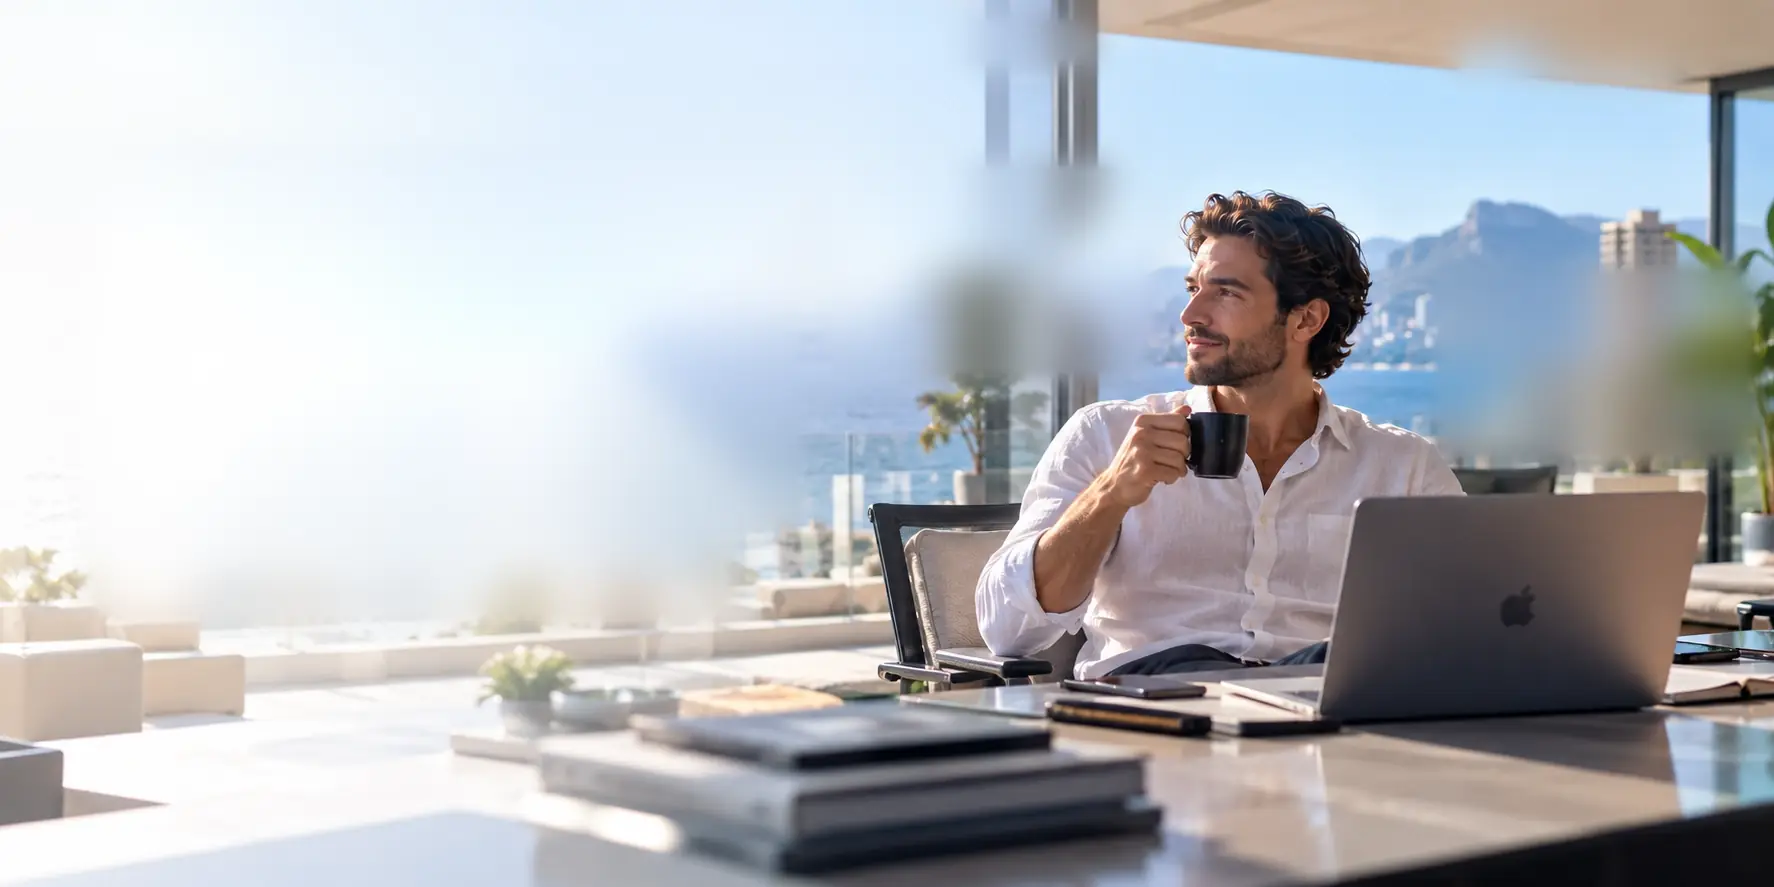
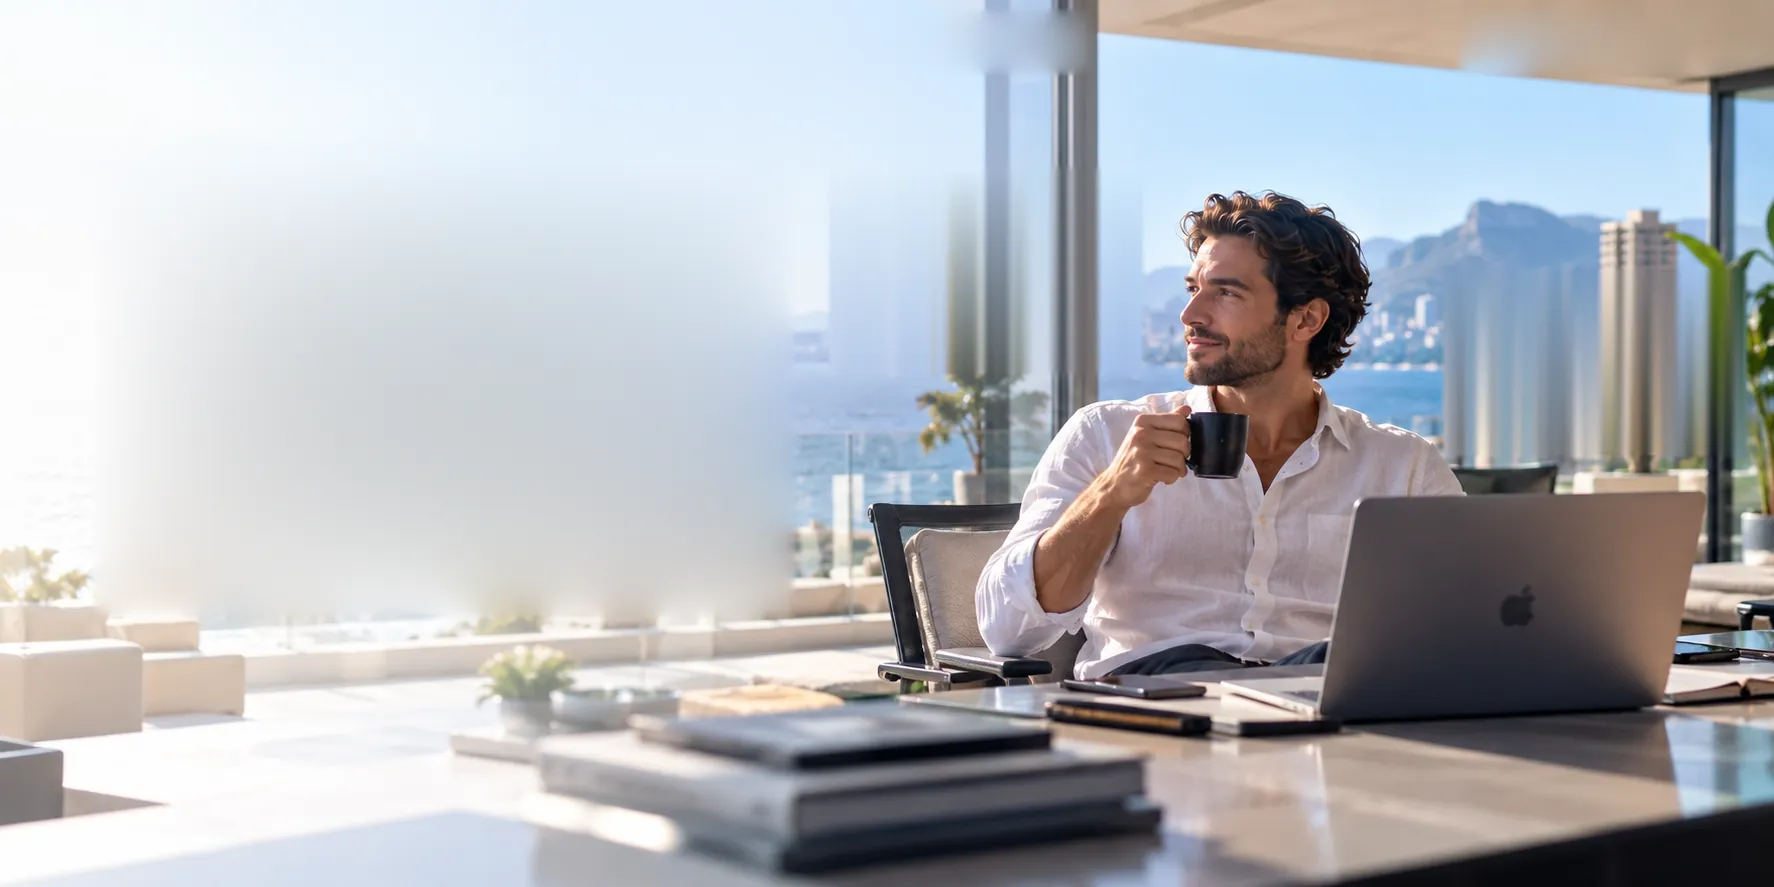
home: hero y garantia nitidos, y en movil el titular arriba, carruseles, caso y garantia con las medidas de estetica

diff --git a/src/index.html b/src/index.html
@@ -160,6 +160,7 @@
     .h-t { margin-top: 22px; font-size: var(--h1); line-height: 1.04; font-weight: 700; letter-spacing: -.045em; }
     .h-sub { margin-top: 26px; max-width: 560px; font-size: clamp(17px, 1.35vw, 20.5px); line-height: 1.55; color: #1F242B; }
     .h-btns { margin-top: 38px; display: flex; flex-wrap: wrap; gap: 18px; }
+    .h-fmov { display: none; }
 
     /* Notificaciones de ejemplo sobre la foto. Son ilustrativas (no hay
        contador ni dato en vivo detras): por eso dicen "Hace 2 min" y no
@@ -300,7 +301,11 @@
     /* Segunda pasada (2026-10-03): "la garantia ocupa mucho". Sin alto
        minimo, retratos 4:4,7 y filas de 44 px, como /estetica/. */
     .s07 { background: #3A3029; min-height: 0; }
-    .s07 .foto { background-image: url(/assets/home-equipo.webp); }
+    /* 2026-10-04: la foto del boceto (home-equipo) estaba borrada casi
+       entera por inpainting y Anais la vio "muy borrosa". Mientras no
+       lleguen los fondos de la home va el salon de inmobiliarias, que es
+       una foto real, nitida y del mismo tono calido. */
+    .s07 .foto { background-image: url(/assets/escena-inmobiliaria.webp); background-position: 30% center; }
     .s07 .velo { background: linear-gradient(90deg, rgba(28,22,18,.72) 0%, rgba(28,22,18,.48) 34%, rgba(28,22,18,.22) 60%, rgba(28,22,18,.30) 100%); }
     .s07 .caja { display: grid; grid-template-columns: 4fr 4.6fr 5.6fr; gap: clamp(22px, 2.4vw, 40px); align-items: center; padding-top: 76px; padding-bottom: 76px; }
     .e-col { color: #fff; }
@@ -459,14 +464,17 @@
 
       /* --- hero: la foto se encoge al ancho y sube, para que el texto
          empiece antes ("las letras empiezan muy abajo") sin taparle la cara --- */
-      .hero { height: auto; min-height: 100svh; background: var(--crema); }
-      .hero .foto { background-image: url(/assets/home-hero-movil.webp); background-size: 100% auto; background-position: center -78px; }
-      .hero .velo { background: linear-gradient(180deg, rgba(249,248,246,0) 0%, rgba(249,248,246,0) 20%, rgba(249,248,246,.9) 30%, var(--crema) 40%); }
+      /* El texto arranca justo debajo de la barra ("las letras empiezan muy
+         abajo") y la foto del chico pasa a un bloque redondeado debajo, con
+         las cuatro viñetas montadas sobre su borde inferior. */
+      .hero { height: auto; min-height: 0; background: var(--crema); }
+      .hero .foto, .hero .velo { display: none; }
+      .h-fmov { display: block; position: relative; z-index: 1; margin-top: 22px; height: 240px; border-radius: 14px; background: url(/assets/home-hero-movil.webp) 60% 25% / cover no-repeat; }
       .h-nav-in { padding: 9px 22px; }
       .h-links { display: none; }
       .marca { font-size: 20px; }
       .h-navbtn { margin-left: auto; padding: .6rem 1.05rem; font-size: .8rem; gap: .4rem; }
-      .h-cuerpo { flex-direction: column; justify-content: flex-start; align-items: stretch; padding: 255px 22px 28px; }
+      .h-cuerpo { flex-direction: column; justify-content: flex-start; align-items: stretch; padding: 84px 22px 26px; }
       .h-t { font-size: clamp(2rem, 8.4vw, 2.6rem); line-height: 1.05; margin-top: .8rem; }
       .h-t br { display: none; }
       .h-sub { font-size: .95rem; line-height: 1.55; margin-top: .9rem; }
@@ -474,10 +482,10 @@
       .h-btns .btn { flex: 1 1 auto; }
       /* las cuatro notificaciones pasan debajo, de dos en dos: en el movil
          se ve lo mismo que en el escritorio (regla de Anais) */
-      .h-avisos { position: static; width: auto; display: grid; grid-template-columns: 1fr 1fr; gap: 8px; margin-top: 14px; }
+      .h-avisos { position: relative; z-index: 2; width: auto; display: grid; grid-template-columns: 1fr 1fr; gap: 8px; margin: -46px 10px 0; }
+      .h-avisos + .h-avisos { margin: 8px 10px 0; }
       .h-av2 { display: grid; }
-      .h-avisos + .h-avisos { margin-top: 8px; }
-      .av { grid-template-columns: 28px 1fr; gap: 0 9px; padding: 10px 9px; border-radius: 10px; }
+      .av { grid-template-columns: 28px 1fr; gap: 0 9px; padding: 10px 9px; border-radius: 10px; background: rgba(250,251,253,.94); }
       .av > div { min-width: 0; }
       .av b { padding-right: 0; }
       .av b, .av span { white-space: normal; }
@@ -487,13 +495,17 @@
       .av span { font-size: 11.5px; }
       .av i { display: none; }
 
-      /* --- 02 --- */
-      .c-grid { margin-top: 24px; grid-template-columns: 1fr 1fr; gap: 10px; }
+      /* --- 02: carrusel horizontal ("hay que deslizar mucho"). Se ve una
+         tarjeta y media para que se entienda que se desliza de lado. --- */
+      .c-grid { margin: 22px -22px 0; padding: 0 22px 6px; display: grid; grid-auto-flow: column; grid-template-columns: none; grid-auto-columns: 62%; gap: 10px;
+                overflow-x: auto; scroll-snap-type: x mandatory; scroll-padding: 0 22px; scrollbar-width: none; -webkit-overflow-scrolling: touch; }
+      .c-grid::-webkit-scrollbar { display: none; }
+      .c-card { scroll-snap-align: start; }
       .c-card img { aspect-ratio: 16 / 10; }
       .c-tx { padding: 11px 12px 14px; }
       .c-tx h3 { font-size: .86rem; line-height: 1.25; }
       .c-tx h3 br { display: none; }
-      .c-tx p { font-size: .78rem; line-height: 1.45; margin-top: 5px; }
+      .c-tx p { font-size: .76rem; line-height: 1.45; margin-top: 5px; }
 
       /* --- 03: de dos en dos y solo el nombre del sector. La entradilla de
          cada tarjeta era la misma frase seis veces ("Automatizacion e
@@ -501,85 +513,94 @@
       .x-grid { margin-top: 24px; grid-template-columns: 1fr 1fr; gap: 10px; }
       .x-card { aspect-ratio: 1 / .82; border-radius: 12px; }
       .x-card::after { background: linear-gradient(180deg, rgba(8,10,14,0) 35%, rgba(8,10,14,.82) 100%); }
-      .x-tx { left: 12px; right: 44px; bottom: 12px; }
-      .x-tx h3 { font-size: 1.02rem; line-height: 1.15; letter-spacing: -.02em; }
+      /* la flecha sube a la esquina: "Concesionarios" se pegaba a ella */
+      .x-tx { left: 12px; right: 12px; bottom: 11px; }
+      .x-tx h3 { font-size: .95rem; line-height: 1.15; letter-spacing: -.02em; }
       .x-tx p { display: none; }
-      .x-ir { right: 10px; bottom: 12px; width: 28px; height: 28px; border-width: 1.2px; }
+      .x-ir { top: 10px; bottom: auto; right: 10px; width: 28px; height: 28px; border-width: 1.2px; background: rgba(8,10,14,.25); }
       .x-ir svg { width: 14px; height: 14px; }
 
-      /* --- 04: cada paso en una fila, foto a la izquierda --- */
-      .p-grid { margin-top: 24px; grid-template-columns: 1fr; gap: 22px; }
-      .p-paso { display: grid; grid-template-columns: 34% 1fr; border-radius: 12px; }
+      /* --- 04: cada paso en una fila, foto a la izquierda, y la seccion
+         entera cabe en una pantalla (~720 px) --- */
+      .s04 .caja { padding-top: 40px; padding-bottom: 40px; }
+      .s04 .cab .p { font-size: .84rem; line-height: 1.55; }
+      .p-grid { margin-top: 18px; grid-template-columns: 1fr; gap: 14px; }
+      .p-paso { display: grid; grid-template-columns: 30% 1fr; border-radius: 12px; }
       .p-paso img { aspect-ratio: auto; height: 100%; border-radius: 12px 0 0 12px; }
-      .p-paso + .p-paso::before { left: calc(17% - 13px); top: -19px; width: 26px; height: 26px; background-size: 13px; transform: rotate(90deg); }
-      .p-tx { display: block; padding: 12px 14px 14px; }
-      .p-n { display: block; font-size: 1.3rem; line-height: 1; }
-      .p-tx h3 { margin-top: 6px; font-size: .92rem; }
-      .p-tx p { margin-top: 5px; font-size: .8rem; line-height: 1.5; }
-      .p-pie { margin-top: 26px; gap: 12px; font-size: .62rem; letter-spacing: .18em; text-align: center; }
-      .p-pie::before, .p-pie::after { flex-basis: 34px; }
+      .p-paso + .p-paso::before { left: calc(15% - 11px); top: -16px; width: 22px; height: 22px; background-size: 11px; transform: rotate(90deg); }
+      .p-tx { display: block; padding: 9px 12px 10px; }
+      .p-n { display: block; font-size: 1.05rem; line-height: 1; }
+      .p-tx h3 { margin-top: 3px; font-size: .84rem; }
+      .p-tx p { margin-top: 3px; font-size: .74rem; line-height: 1.42; }
+      .p-pie { margin-top: 18px; gap: 10px; font-size: .58rem; letter-spacing: .16em; text-align: center; }
+      .p-pie::before, .p-pie::after { flex-basis: 30px; }
 
-      /* --- 05: la foto arriba mas baja y las ocho fichas mas cortas --- */
-      .s05 .foto, .s05 .velo { left: 0; height: 220px; }
+      /* --- 05: foto arriba mas baja y las ocho fichas en carrusel --- */
+      .s05 .foto, .s05 .velo { left: 0; height: 190px; }
       .s05 .foto { background-image: url(/assets/home-integ-movil.webp); background-position: center 30%; }
       .s05 .velo { background: linear-gradient(0deg, #FAF8F6 0%, rgba(250,248,246,0) 45%); }
-      .s05 .caja { padding-top: 196px; }
-      .i-tx .p { margin-top: .8rem; }
-      .i-grid { margin-top: 22px; grid-template-columns: 1fr 1fr; gap: 9px; }
-      .i-card img { aspect-ratio: 16 / 8; }
-      .i-card div { padding: 9px 11px 12px; }
-      .i-card b { font-size: .86rem; }
-      .i-card span { margin-top: 3px; font-size: .76rem; line-height: 1.4; }
+      .s05 .caja { padding-top: 170px; padding-bottom: 40px; }
+      .i-tx .p { margin-top: .7rem; font-size: .86rem; }
+      .i-grid { margin: 18px -22px 0; padding: 0 22px 6px; display: grid; grid-auto-flow: column; grid-template-columns: none; grid-auto-columns: 38%; gap: 9px;
+                overflow-x: auto; scroll-snap-type: x mandatory; scroll-padding: 0 22px; scrollbar-width: none; }
+      .i-grid::-webkit-scrollbar { display: none; }
+      .i-card { scroll-snap-align: start; }
+      .i-card img { aspect-ratio: 16 / 11; }
+      .i-card div { padding: 9px 10px 11px; }
+      .i-card b { font-size: .84rem; }
+      .i-card span { margin-top: 3px; font-size: .72rem; line-height: 1.4; }
       .i-card br { display: none; }
 
-      /* --- 06: los tres numeros en una fila y todo un punto mas pequeno --- */
-      .s06 .caja { padding-top: 52px; padding-bottom: 52px; }
-      .k-grid { gap: 18px; }
-      .k-fotos { margin-top: 18px; gap: 8px; }
+      /* --- 06: medidas del caso de Pilar en /estetica/ movil, que Anais da
+         por buenas ("estan mas pequeñas") --- */
+      .s06 .caja { padding-top: 34px; padding-bottom: 34px; }
+      .k-izq .h2 { font-size: clamp(1.5rem, 3vw, 2rem); }
+      .k-grid { gap: 14px; }
+      .k-fotos { margin-top: 14px; gap: 8px; aspect-ratio: auto; }
+      .k-fotos img { aspect-ratio: 16 / 10; height: auto; border-radius: 10px; }
       .k-quien { margin-top: 12px; }
-      .k-quien b { font-size: 1.25rem; }
-      .k-quien span { font-size: .95rem; }
-      .k-quien i { font-size: .8rem; margin-top: 2px; }
+      .k-quien b { font-size: 1.2rem; }
+      .k-quien span { font-size: .9rem; }
+      .k-quien i { font-size: .78rem; margin-top: 2px; }
       .k-der { gap: 10px; }
-      .k-ig { align-self: flex-start; font-size: .82rem; margin: 0; }
+      .k-ig { align-self: flex-start; font-size: .8rem; margin: 0; }
       .k-ig svg { width: 20px; height: 20px; }
-      .k-nums { grid-template-columns: .8fr .8fr 1.4fr; }
-      .k-num { padding: 14px 12px 12px; }
-      .k-num strong { font-size: 1.75rem; letter-spacing: -.03em; }
-      .k-num span { margin-top: 8px; font-size: .58rem; letter-spacing: .06em; white-space: normal; }
-      .k-num i { font-size: .7rem; margin-top: 2px; }
-      .k-sin { grid-template-columns: 24px 1fr; gap: 0 12px; padding: 14px; }
-      .k-sin svg { width: 22px; height: 22px; }
-      .k-sin b { font-size: .88rem; }
-      .k-sin p { font-size: .8rem; }
-      .k-nota { grid-column: 1 / -1; margin-top: 10px; padding-top: 10px; font-size: .72rem; }
+      .k-nums { grid-template-columns: 1fr 1fr 1.25fr; }
+      .k-num { padding: 12px 10px; }
+      .k-num strong { font-size: 1.45rem; letter-spacing: -.03em; }
+      .k-num span { margin-top: 6px; font-size: .56rem; letter-spacing: .06em; white-space: normal; }
+      .k-num i { font-size: .66rem; margin-top: 2px; }
+      .k-sin { grid-template-columns: 22px 1fr; gap: 0 10px; padding: 10px 12px; }
+      .k-sin svg { width: 20px; height: 20px; }
+      .k-sin b { font-size: .84rem; }
+      .k-sin p { font-size: .74rem; line-height: 1.45; }
+      .k-nota { grid-column: 1 / -1; margin-top: 6px; padding-top: 8px; font-size: .62rem; line-height: 1.4; }
       .k-dos { grid-template-columns: 1fr; gap: 10px; }
-      .k-card { padding: 14px 16px 16px; }
-      .k-card h3 { font-size: .9rem; }
-      .k-card p { margin-top: 6px; font-size: .8rem; line-height: 1.5; }
-      .k-cita { grid-template-columns: 38px 1fr; gap: 0 12px; padding: 14px 16px; align-items: start; }
-      .k-cita u { width: 38px; height: 38px; }
-      .k-cita u svg { width: 19px; height: 19px; }
-      .k-cita hr { display: none; }
-      .k-cita b { font-size: .88rem; }
-      .k-cita p { font-size: .8rem; line-height: 1.5; }
+      .k-card { padding: 10px 12px 12px; }
+      .k-card h3 { font-size: .84rem; }
+      .k-card p { margin-top: 4px; font-size: .74rem; line-height: 1.42; }
+      .k-cita { grid-template-columns: 1fr; gap: 0; padding: 10px 12px; }
+      .k-cita u, .k-cita hr { display: none; }
+      .k-cita b { font-size: .84rem; }
+      .k-cita p { font-size: .74rem; line-height: 1.42; }
 
-      /* --- 07-09 --- */
-      .s07 .caja { padding-top: 52px; padding-bottom: 52px; }
-      .s07 .foto { background-image: url(/assets/home-equipo-movil.webp); }
-      .s07 .velo { background: linear-gradient(180deg, rgba(28,22,18,.70) 0%, rgba(28,22,18,.50) 40%, rgba(28,22,18,.70) 100%); }
-      .e-col .p { font-size: .93rem; margin-top: .8rem; }
-      .e-pers { margin-top: 22px; gap: 10px; }
-      .e-nom { padding: 8px 12px 10px; }
-      .e-nom b { font-size: .9rem; } .e-nom i { font-size: .75rem; }
-      .g-col { margin-top: 20px; }
-      .g-panel { padding: 4px 12px 10px; }
-      .g-fila, .g-datos { grid-template-columns: 36px 1fr; gap: 0 12px; padding: 9px 0; font-size: .84rem; }
-      .g-datos { padding: 10px; }
-      .g-fila u, .g-datos u { width: 36px; height: 36px; }
-      .g-fila u svg, .g-datos u svg { width: 18px; height: 18px; }
-      .g-datos b { font-size: .84rem; }
-      .g-datos p { font-size: .74rem; }
+      /* --- 07-09: medidas de equipo y garantia de /estetica/ movil --- */
+      .s07 .caja { padding-top: 32px; padding-bottom: 32px; }
+      .s07 .velo { background: linear-gradient(180deg, rgba(20,14,10,.78) 0%, rgba(20,14,10,.55) 40%, rgba(20,14,10,.70) 100%); }
+      .e-col .p { font-size: .86rem; line-height: 1.5; margin-top: .6rem; }
+      .e-pers { margin-top: 14px; max-width: 250px; gap: 8px; }
+      .e-per { aspect-ratio: 4 / 3.6; }
+      .e-nom { padding: 6px 9px 7px; }
+      .e-nom b { font-size: .8rem; } .e-nom i { font-size: .68rem; }
+      .g-col { margin-top: 14px; }
+      .g-panel { padding: 2px 12px 10px; }
+      .g-fila, .g-datos { grid-template-columns: 30px 1fr; gap: 0 10px; }
+      .g-fila { padding: 6px 0; font-size: .8rem; }
+      .g-datos { padding: 8px 10px; margin-top: 2px; }
+      .g-fila u, .g-datos u { width: 30px; height: 30px; }
+      .g-fila u svg, .g-datos u svg { width: 16px; height: 16px; }
+      .g-datos b { font-size: .8rem; }
+      .g-datos p { font-size: .7rem; line-height: 1.4; }
       .g-fila br, .e-col .p br { display: none; }
 
       /* --- 10 --- */
@@ -655,6 +676,10 @@
           <a class="btn btn-b" href="#hablemos" data-cal>Reservar llamada</a>
         </div>
       </div>
+
+      <!-- Solo movil: la foto va en un bloque debajo del texto, para que el
+           titular empiece justo debajo de la barra (2026-10-04). -->
+      <div class="h-fmov" aria-hidden="true"></div>
 
       <div class="h-avisos h-av1" aria-label="Ejemplos de avisos del sistema">
         <div class="av"><u class="wa"><svg viewBox="0 0 24 24" fill="currentColor"><path d="M12 2.2a9.7 9.7 0 00-8.4 14.6L2.3 21.7l5-1.3A9.7 9.7 0 1012 2.2zm0 17.7a8 8 0 01-4.1-1.1l-.3-.2-3 .8.8-2.9-.2-.3A8 8 0 1112 19.9zm4.4-6c-.2-.1-1.4-.7-1.6-.8s-.4-.1-.5.1l-.8.9c-.1.2-.3.2-.5.1a6.5 6.5 0 01-3.2-2.8c-.2-.4.2-.4.7-1.3.1-.1 0-.3 0-.4l-.7-1.7c-.2-.5-.4-.4-.5-.4h-.5a.9.9 0 00-.6.3 2.7 2.7 0 00-.9 2c0 1.2.9 2.3 1 2.5s1.7 2.6 4.2 3.7c1.6.7 2.2.7 3 .6.5-.1 1.4-.6 1.6-1.1s.2-1 .1-1.1-.2-.2-.4-.3z"/></svg></u>

diff --git a/docs/fondos-index-v2.py b/docs/fondos-index-v2.py
@@ -85,21 +85,76 @@ def emborrona(arr, rect, sigma=4):
 
 
 # ---------------- 01 · HERO ----------------
+# Segunda version (2026-10-04). La primera borraba con inpainting y
+# desenfoque, y dejaba manchas grises donde iban las tarjetas del boceto.
+# Mientras las tarjetas HTML estaban encima no se veian; al bajarlas para
+# despejar la cara del chico quedaron a la vista y Anais vio el hero "muy
+# borroso". Ahora:
+#  - la zona del pilar se rellena columna a columna (pixel de arriba a pixel
+#    de abajo): el pilar sigue siendo una linea vertical limpia;
+#  - el resto con un relleno suave que parte de los cuatro bordes del hueco
+#    (ecuacion de Laplace, por piramide), fundido en el borde y con grano.
+#    En la bruma y el fondo desenfocado se lee como profundidad de campo,
+#    no como mancha ni como recuadro.
+def rellena_vertical(arr, rect):
+    x0, y0, x1, y1 = rect
+    arr = arr.astype(np.float32)
+    arriba = arr[y0 - 1, x0:x1]
+    abajo = arr[y1, x0:x1]
+    t = np.linspace(0, 1, y1 - y0, dtype=np.float32)[:, None, None]
+    arr[y0:y1, x0:x1] = arriba[None] * (1 - t) + abajo[None] * t
+    return arr
+
+
+def rellena_suave(arr, mascara):
+    """Relleno armonico: dentro de la mascara, cada pixel es la media de sus
+    vecinos; se resuelve de grueso a fino para que converja rapido."""
+    img = arr.astype(np.float32)
+    m = mascara > 0
+    niveles = []
+    a, mm = img, m
+    while min(a.shape[:2]) > 40:
+        niveles.append((a, mm))
+        a = cv2.resize(a, (a.shape[1] // 2, a.shape[0] // 2), interpolation=cv2.INTER_AREA)
+        mm = cv2.resize(mm.astype(np.uint8), (mm.shape[1] // 2, mm.shape[0] // 2), interpolation=cv2.INTER_NEAREST) > 0
+    sol = None
+    for a, mm in reversed(niveles):
+        a = a.copy()
+        if sol is not None:
+            sube = cv2.resize(sol, (a.shape[1], a.shape[0]), interpolation=cv2.INTER_LINEAR)
+            a[mm] = sube[mm]
+        for _ in range(120):
+            media = cv2.blur(a, (3, 3))
+            a[mm] = media[mm]
+        sol = a
+    return sol
+
+
+def funde(base, relleno, mascara, borde=14, grano=1.4, semilla=7):
+    a = cv2.GaussianBlur((mascara > 0).astype(np.float32), (0, 0), borde)[..., None]
+    a = np.clip(a * 1.25, 0, 1) * ((mascara > 0)[..., None] * .0 + 1)
+    rng = np.random.default_rng(semilla)
+    r = relleno + rng.normal(0, grano, relleno.shape) * (mascara > 0)[..., None]
+    out = base.astype(np.float32) * (1 - a) + r * a
+    return np.clip(out, 0, 255).astype(np.uint8)
+
+
 h = carga('01-hero.webp')
+# Rellenos verticales: detras de las viñetas habia lineas verticales reales
+# (el pilar de la ventana a la izquierda; el edificio, el marco y la planta a
+# la derecha). Un poco de suavizado horizontal quita las rayas de cortina.
+for r in [(828, 168, 1144, 372),         # "Nuevo cliente" y "Cita confirmada"
+          (1442, 270, 1748, 454)]:       # "Lead cualificado" y "Proceso automatizado"
+    hv = rellena_vertical(h, r)
+    hv = cv2.blur(hv, (7, 1))
+    h = funde(h, hv, mascara_rect(h.shape, [r], crece=0), borde=4)
 m = mascara_rect(h.shape, [
-    (95, 15, 285, 70),        # logotipo
-    (470, 25, 1085, 58),      # menu
-    (1462, 12, 1684, 70),     # boton de la barra
-    (100, 540, 465, 610),     # boton negro
-    (484, 540, 724, 610),     # boton con borde
-    (832, 172, 1140, 270),    # tarjeta "Nuevo cliente"
-    (832, 282, 1140, 368),    # tarjeta "Cita confirmada"
-    (1446, 275, 1744, 356),   # tarjeta "Lead cualificado"
-    (1446, 367, 1744, 450),   # tarjeta "Proceso automatizado"
-    (95, 170, 790, 520),      # titular y entradilla: fondo de bruma, se borra entero
-])
-h = borra(h, m, 9, 22)
-guarda(h, 'home-hero.webp', q=72)
+    (95, 12, 1090, 72),       # logotipo y menu
+    (1458, 10, 1688, 72),     # boton de la barra
+    (95, 168, 792, 614),      # titular, entradilla y botones: bruma
+], crece=4)
+h = funde(h, rellena_suave(h, m), m, borde=10)
+guarda(h, 'home-hero.webp', q=80)
 # movil: ventana vertical sobre el hombre y la mesa
 guarda(h[:, 1000:1460], 'home-hero-movil.webp', q=72)
 

diff --git a/CLAUDE.md b/CLAUDE.md
@@ -1126,6 +1126,18 @@ se tocan.
   inmobiliarias y se compacta: sectores de dos en dos y solo con el nombre,
   "como trabajamos" con la foto a la izquierda de cada paso, integraciones y
   caso real mas cortos. Movil de 12.300 a 8.500 px.
+- **Quinta pasada (2026-10-04)**: el hero y la garantia se veian "muy
+  borrosos". En el hero eran las manchas del inpainting donde iban las
+  tarjetas del boceto, que quedaron a la vista al bajar las viñetas: ahora
+  esos huecos se rellenan columna a columna (pilar y edificios siguen
+  nitidos) y la bruma de la izquierda con un relleno suave. **No volver a
+  usar inpainting con desenfoque en huecos grandes.** La garantia pasa a
+  `escena-inmobiliaria.webp` (foto real nitida) hasta que lleguen los fondos
+  de la home. Movil: el titular arranca bajo la barra y la foto va en un
+  bloque debajo con las viñetas encima; "lo que construimos" e integraciones
+  en carrusel horizontal; "como trabajamos" cabe en una pantalla; caso y
+  garantia con las medidas exactas del movil de estetica; en sectores la
+  flecha sube a la esquina. Movil de 8.500 a 6.400 px.
 
 ## Landing de clinicas premium v2 (2026-10-02)
 
